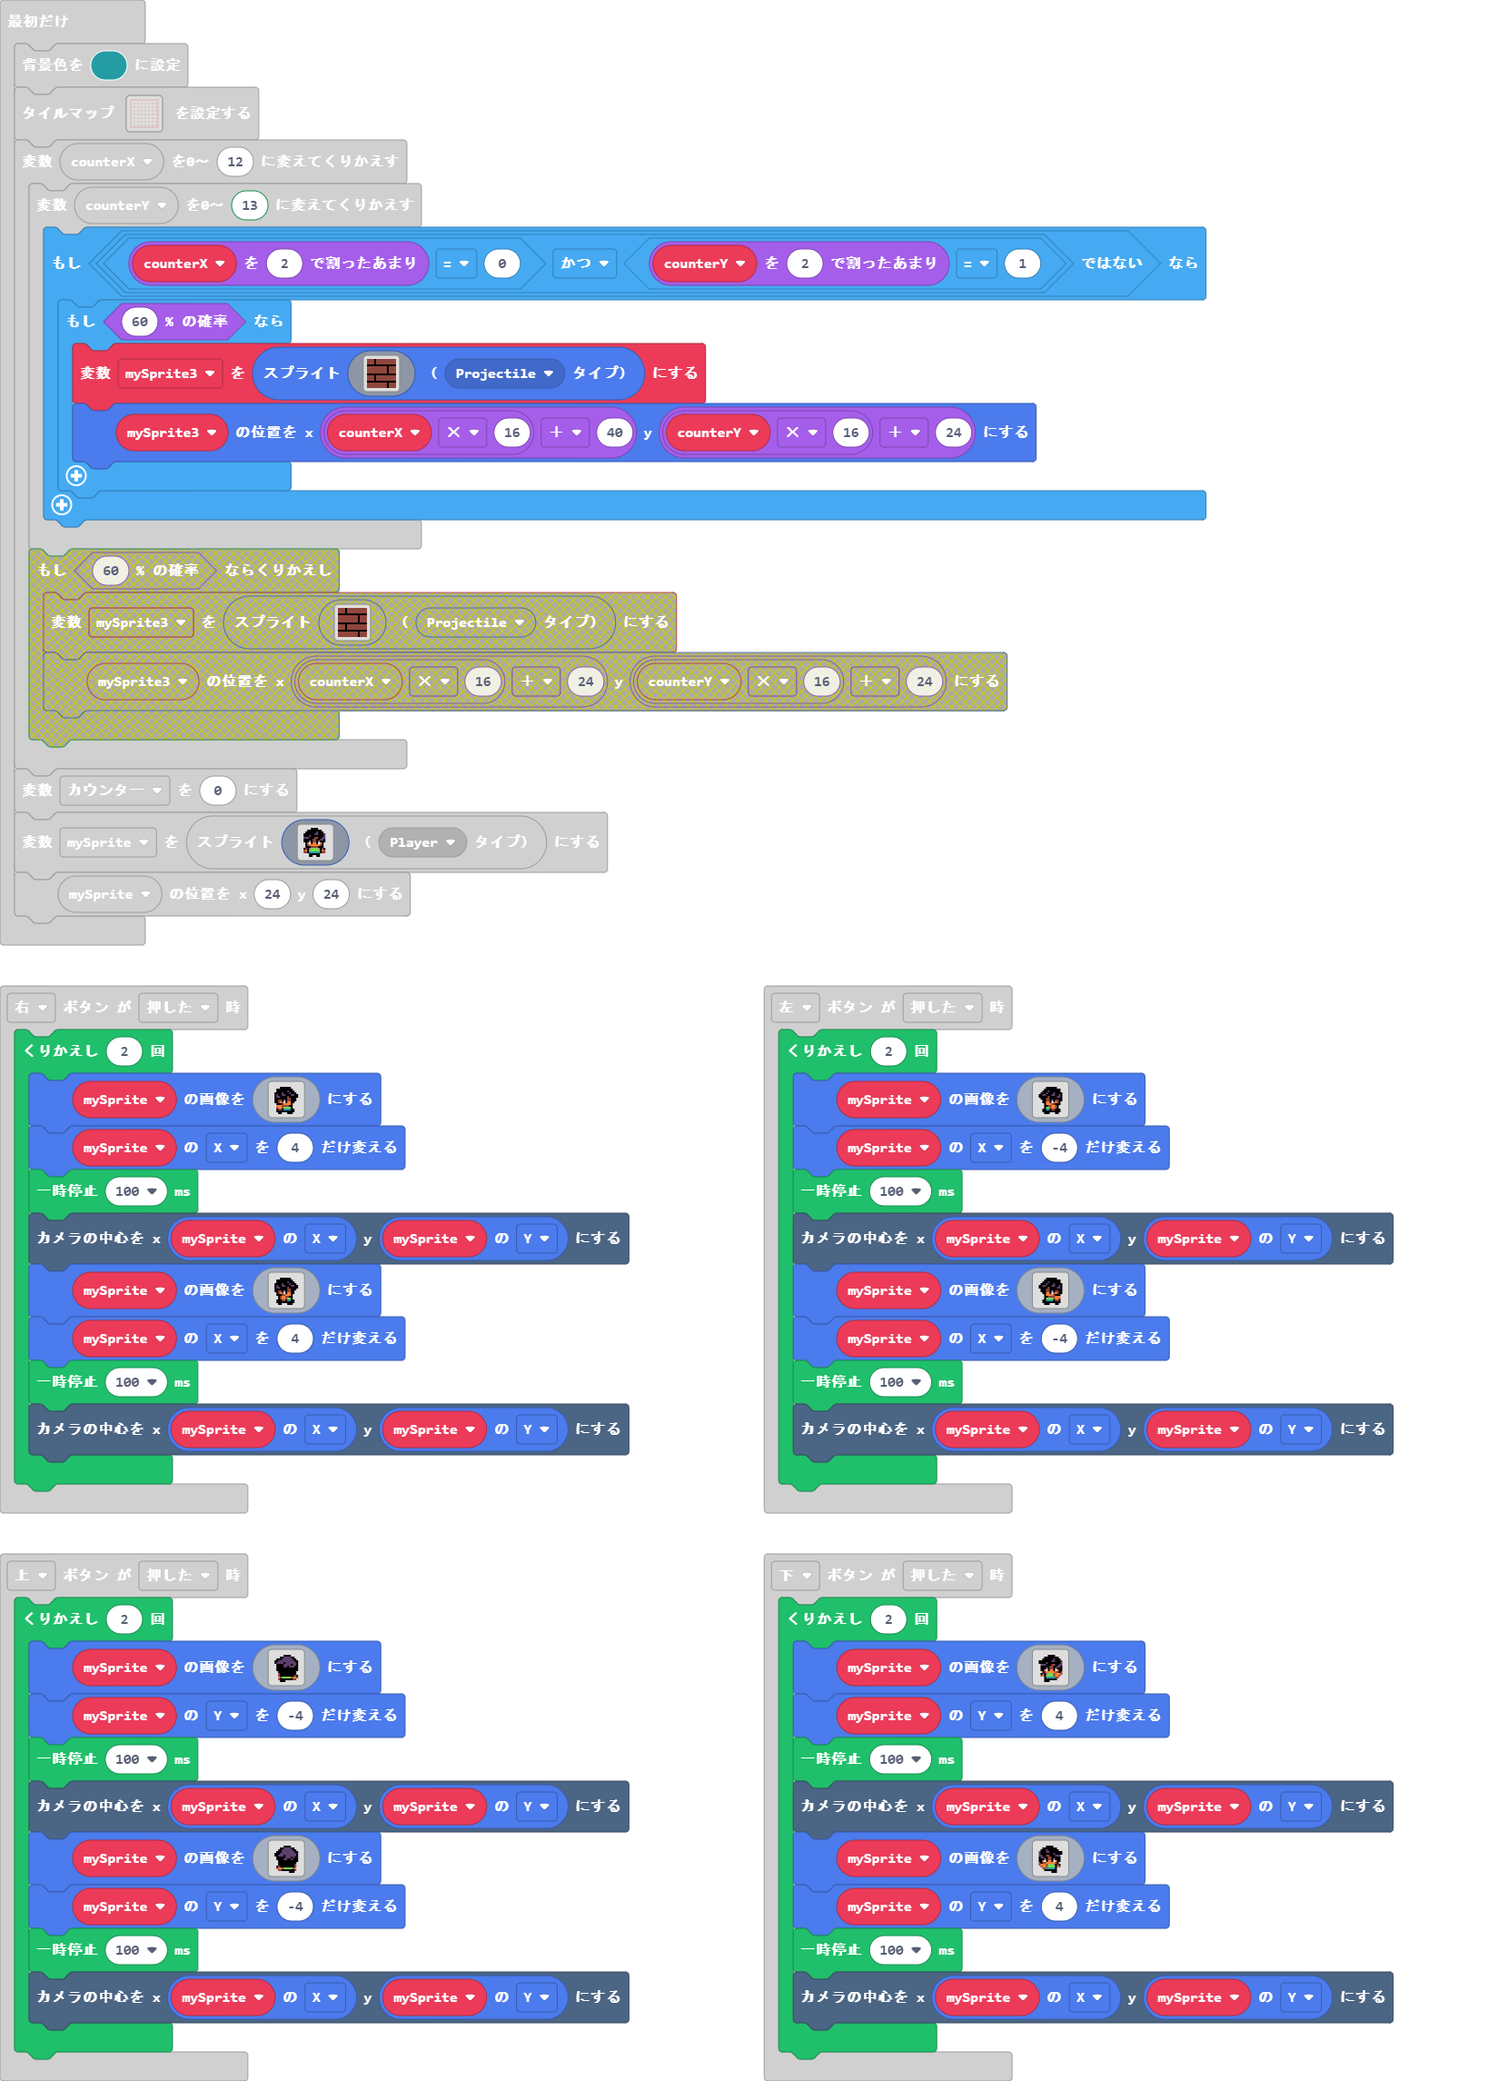
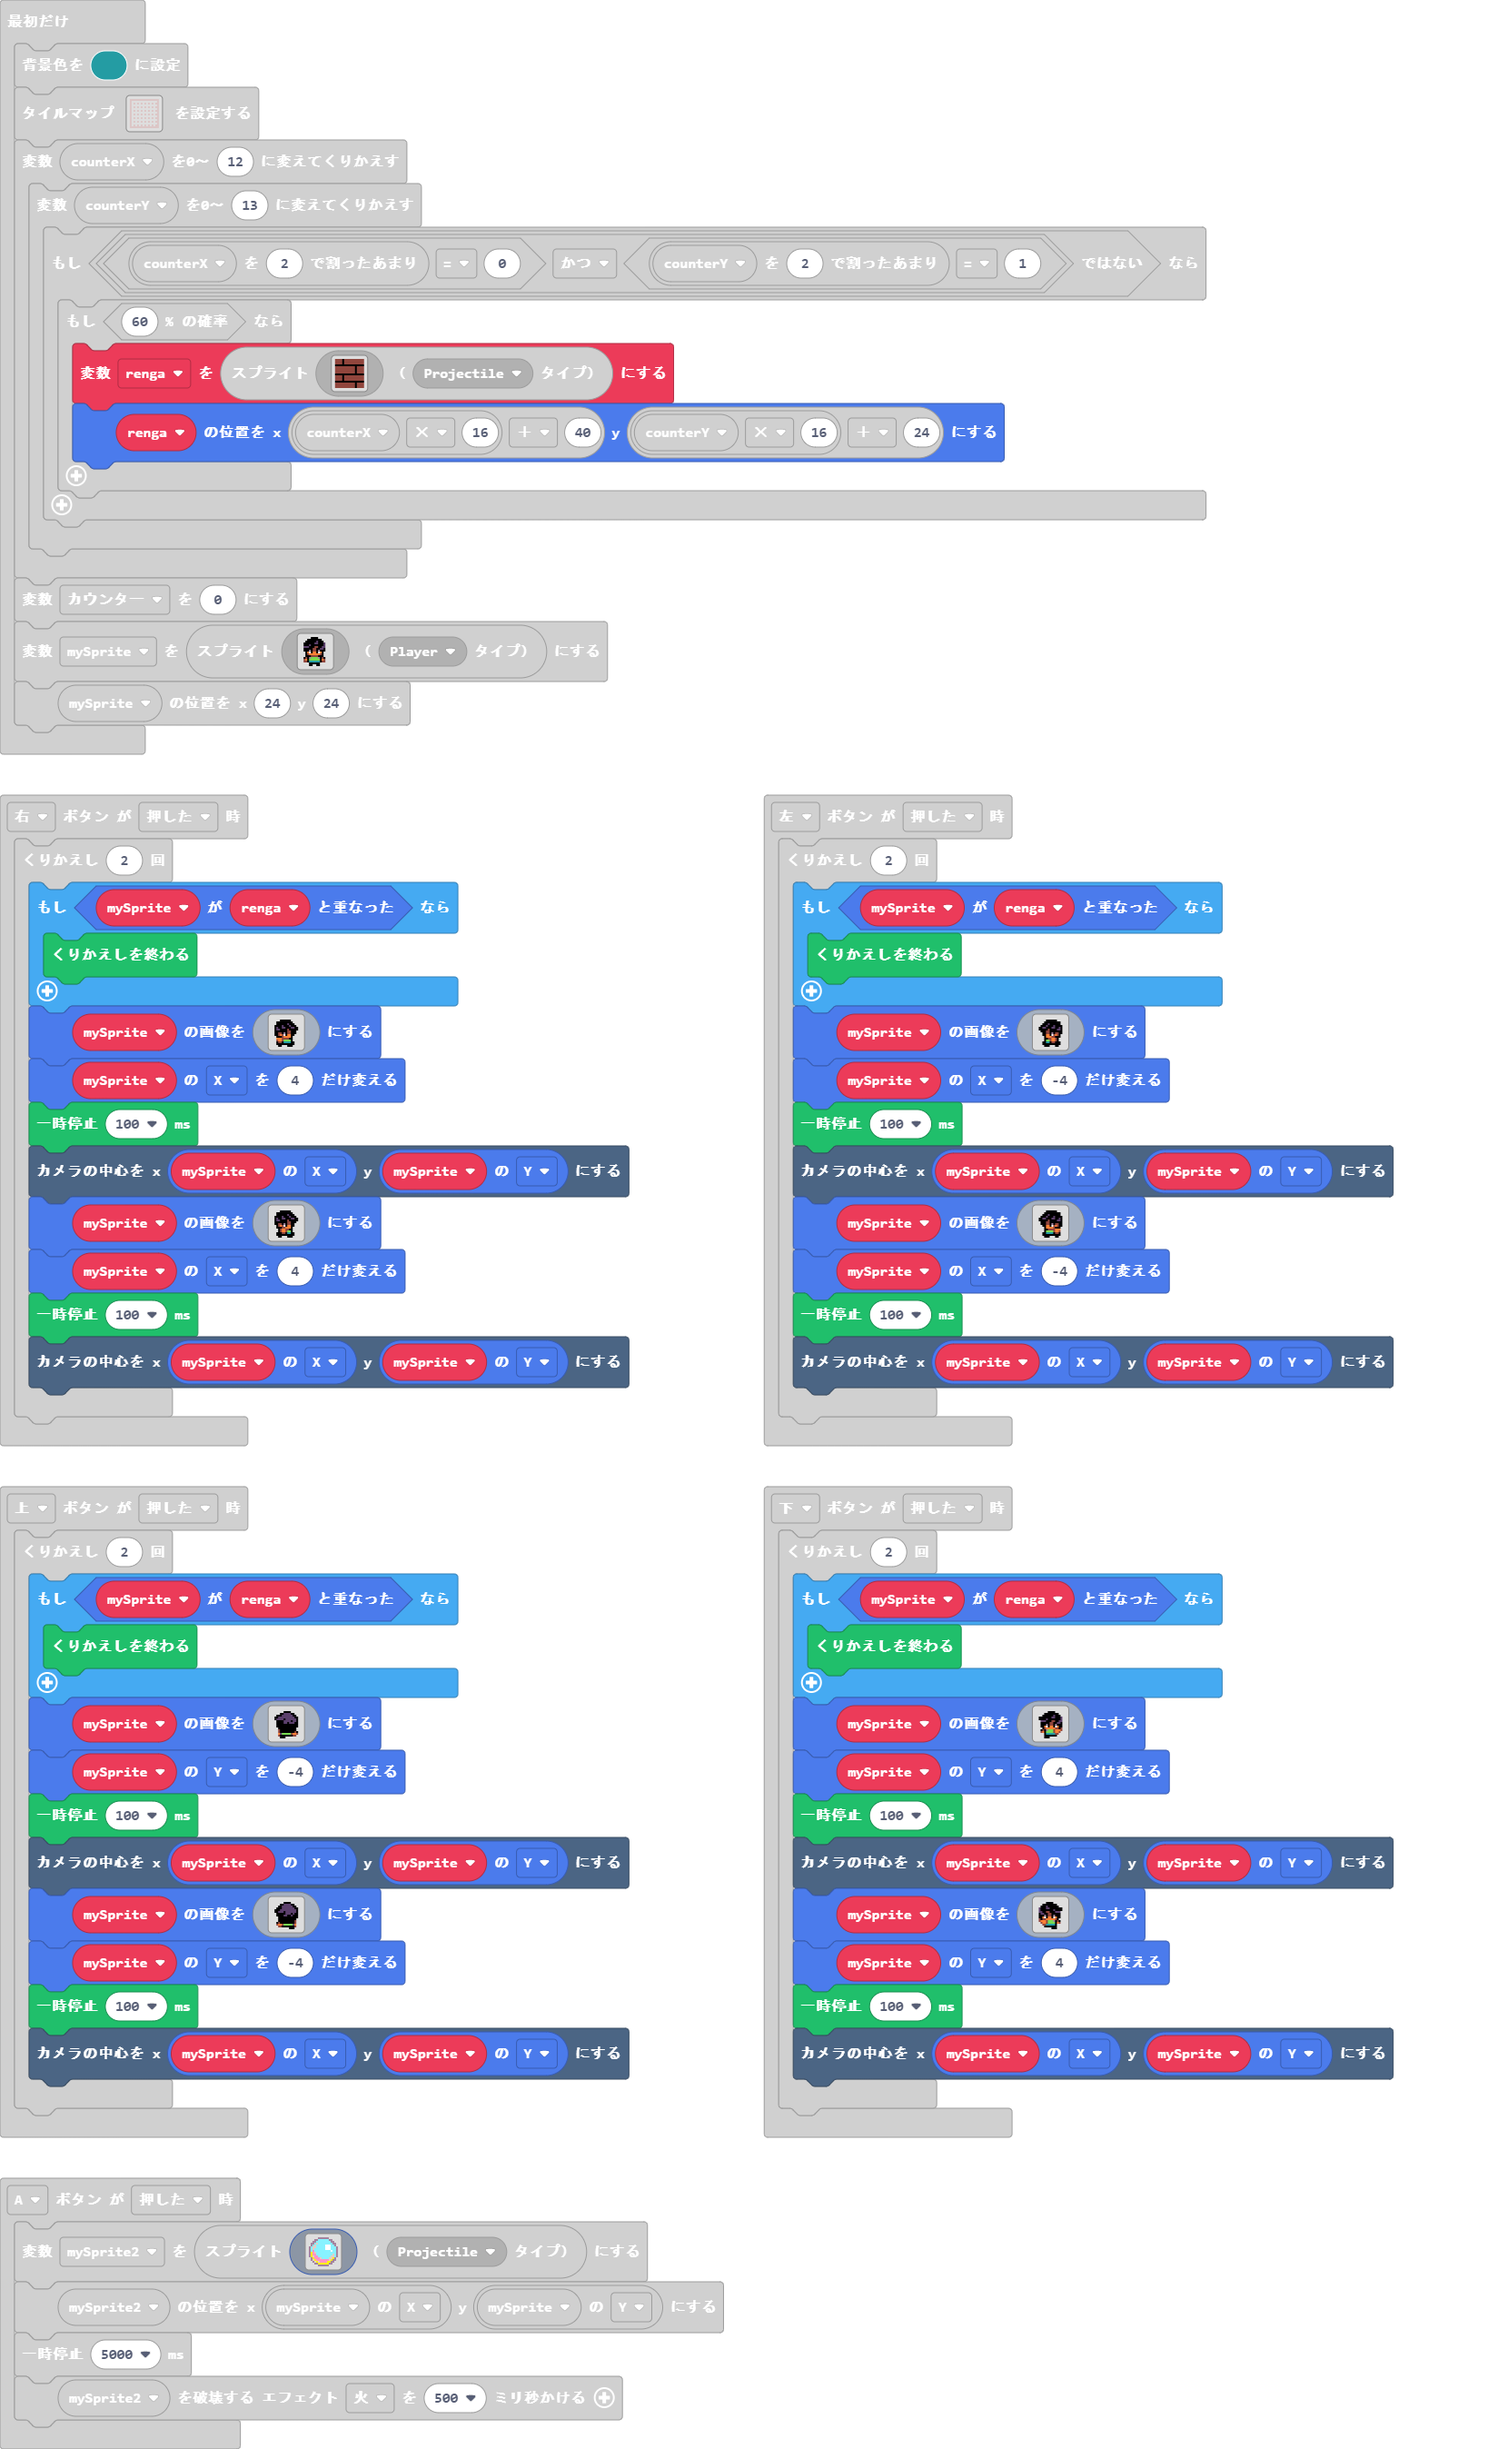
更新 main.blocks, main.ts

diff --git a/main.ts b/main.ts
@@ -1,5 +1,8 @@
 controller.right.onEvent(ControllerButtonEvent.Pressed, function () {
     for (let index = 0; index < 2; index++) {
+        if (mySprite.overlapsWith(renga)) {
+            break;
+        }
         mySprite.setImage(img`
             . . . . . . . . . . . . . 
             . . . f f f f f f . . . . 
@@ -46,6 +49,9 @@ controller.right.onEvent(ControllerButtonEvent.Pressed, function () {
 })
 controller.down.onEvent(ControllerButtonEvent.Pressed, function () {
     for (let index = 0; index < 2; index++) {
+        if (mySprite.overlapsWith(renga)) {
+            break;
+        }
         mySprite.setImage(img`
             . . . . . . . . . . . . . 
             . . . . . f f f f . . . . 
@@ -92,6 +98,9 @@ controller.down.onEvent(ControllerButtonEvent.Pressed, function () {
 })
 controller.left.onEvent(ControllerButtonEvent.Pressed, function () {
     for (let index = 0; index < 2; index++) {
+        if (mySprite.overlapsWith(renga)) {
+            break;
+        }
         mySprite.setImage(img`
             . . . . . . . . . . . . . 
             . . . . f f f f f f . . . 
@@ -138,6 +147,9 @@ controller.left.onEvent(ControllerButtonEvent.Pressed, function () {
 })
 controller.up.onEvent(ControllerButtonEvent.Pressed, function () {
     for (let index = 0; index < 2; index++) {
+        if (mySprite.overlapsWith(renga)) {
+            break;
+        }
         mySprite.setImage(img`
             . . . . . . . . . . . . . 
             . . . . . f f f f . . . . 
@@ -184,22 +196,22 @@ controller.up.onEvent(ControllerButtonEvent.Pressed, function () {
 })
 controller.A.onEvent(ControllerButtonEvent.Pressed, function () {
     mySprite2 = sprites.create(img`
-        . . . . . . . . . . . . . . . . 
-        . . . . . . . . . . . . . . . . 
-        . . . . . . . f f f f f f . . . 
-        . . . . . f f . . . . . f . . . 
-        . . . . f f . . . . . . . f f . 
-        . . . f . . . . . . . . . . f . 
-        . . . f . . . . . . . . . . f . 
-        . . . f . . . . . . . . . . f . 
-        . . . f . . . . . . . . . . f . 
-        . . . f f . . . . . . . . f f . 
-        . . . . f . . . . . . . . f . . 
-        . . . . f f . . . . . . f f . . 
-        . . . . . f f . . . . f f . . . 
-        . . . . . . f f . . f f . . . . 
-        . . . . . . . . f f f . . . . . 
-        . . . . . . . . . . . . . . . . 
+        . . . . . b b b b b b . . . . . 
+        . . . b b 9 9 9 9 9 9 b b . . . 
+        . . b b 9 9 9 9 9 9 9 9 b b . . 
+        . b b 9 d 9 9 9 9 9 9 9 9 b b . 
+        . b 9 d 9 9 9 9 9 1 1 1 9 9 b . 
+        b 9 d d 9 9 9 9 9 1 1 1 9 9 9 b 
+        b 9 d 9 9 9 9 9 9 1 1 1 9 9 9 b 
+        b 9 3 9 9 9 9 9 9 9 9 9 1 9 9 b 
+        b 5 3 d 9 9 9 9 9 9 9 9 9 9 9 b 
+        b 5 3 3 9 9 9 9 9 9 9 9 9 d 9 b 
+        b 5 d 3 3 9 9 9 9 9 9 9 d d 9 b 
+        . b 5 3 3 3 d 9 9 9 9 d d 5 b . 
+        . b d 5 3 3 3 3 3 3 3 d 5 b b . 
+        . . b d 5 d 3 3 3 3 5 5 b b . . 
+        . . . b b 5 5 5 5 5 5 b b . . . 
+        . . . . . b b b b b b . . . . . 
         `, SpriteKind.Projectile)
     mySprite2.setPosition(mySprite.x, mySprite.y)
     pause(5000)
@@ -207,14 +219,14 @@ controller.A.onEvent(ControllerButtonEvent.Pressed, function () {
 })
 let mySprite2: Sprite = null
 let mySprite: Sprite = null
-let mySprite3: Sprite = null
+let renga: Sprite = null
 scene.setBackgroundColor(6)
 tiles.setTilemap(tilemap`レベル1`)
 for (let counterX = 0; counterX <= 12; counterX++) {
     for (let counterY = 0; counterY <= 13; counterY++) {
         if (!(counterX % 2 == 0 && counterY % 2 == 1)) {
             if (Math.percentChance(60)) {
-                mySprite3 = sprites.create(img`
+                renga = sprites.create(img`
                     e e e e f e e e e e e e e e e e 
                     e e e e f e e e e e e e e e e e 
                     e e e e f e e e e e e e e e e e 
@@ -232,7 +244,7 @@ for (let counterX = 0; counterX <= 12; counterX++) {
                     e e e e e e e e e e e f e e e e 
                     e e e e e e e e e e e f e e e e 
                     `, SpriteKind.Projectile)
-                mySprite3.setPosition(counterX * 16 + 40, counterY * 16 + 24)
+                renga.setPosition(counterX * 16 + 40, counterY * 16 + 24)
             }
         }
     }
